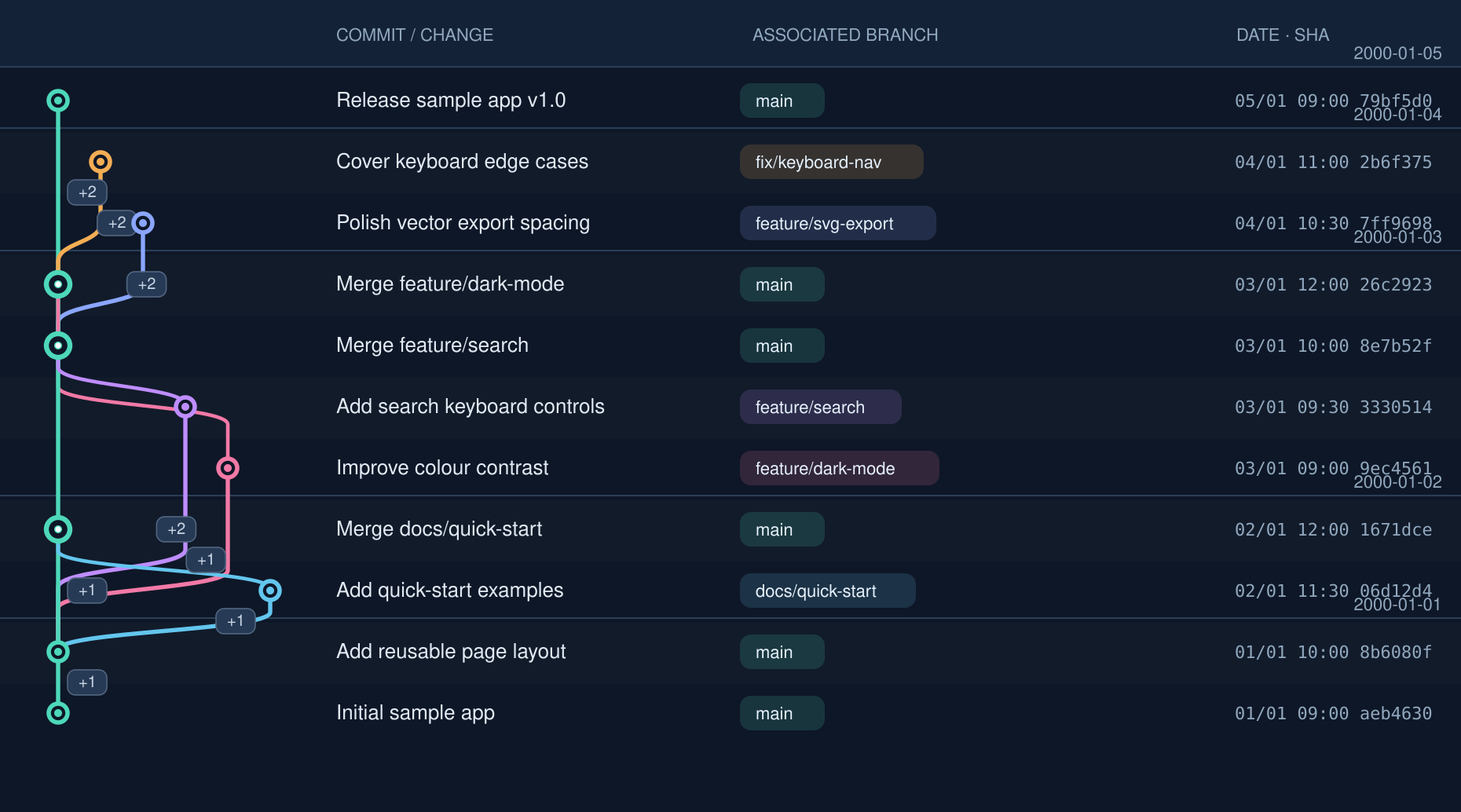
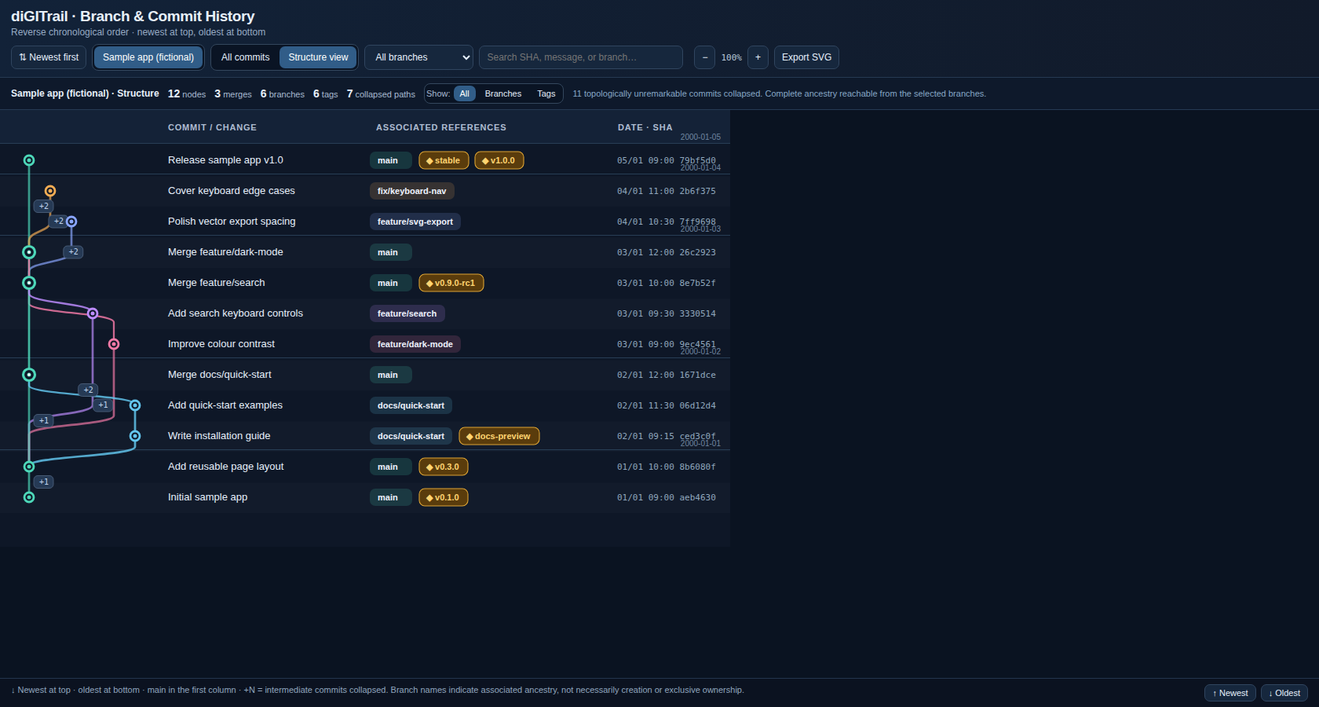
docs: refresh demo HTML and tag-enabled preview assets

diff --git a/examples/demo.html b/examples/demo.html
@@ -4,7 +4,6 @@
 header{padding:10px 14px 8px;background:linear-gradient(90deg,#122238,#111a2a);border-bottom:1px solid var(--line)}
 .topline{display:flex;justify-content:space-between;align-items:center;gap:10px;flex-wrap:wrap}
 h1{font-size:19px;margin:0 0 2px;letter-spacing:-.4px}.subtitle{font-size:12px;color:var(--muted);margin:0}
-.metadata{display:flex;align-items:center;gap:6px;flex-wrap:wrap;color:#b8cae0;font-size:11px}.tag{border:1px solid #344c6b;background:#1a2b43;padding:4px 8px;border-radius:999px}
 .controls{display:flex;align-items:center;gap:7px;flex-wrap:wrap;margin-top:8px}
 .tabs{display:flex;padding:2px;border-radius:8px;background:#0a1424;border:1px solid #34475d;gap:2px}
 button,select,input{font-family:inherit;font-size:12px;border:1px solid #30455f;border-radius:7px;padding:7px 9px;background:#16273d;color:#e6f0fc;outline:none}
@@ -18,6 +17,9 @@ button{cursor:pointer}button:hover{background:#243d5c}button.chosen{background:#
 #graph{width:100%;min-width:100%}.graph-svg{display:block;max-width:none}
 .graph-svg .daytext{font-size:10px;fill:#7086a1}.graph-svg .meta{font-family:ui-monospace,SFMono-Regular,Consolas,monospace;font-size:11px;fill:#90a7bd}.graph-svg .message{font-family:Inter,'Segoe UI',Arial,sans-serif;font-size:13px;fill:#e7f0fc}
 .graph-svg .message.muted{fill:#8d9cb2}.graph-svg .branch-label{font-family:Inter,'Segoe UI',Arial,sans-serif;font-size:11px;fill:#eef2fd;font-weight:600}
+.graph-svg .tag-label{font-family:Inter,'Segoe UI',Arial,sans-serif;font-size:11px;fill:#ffd471;font-weight:600}
+#ref-visibility{align-items:center;gap:4px}#ref-visibility button{padding:4px 8px;font-size:11px}
+.ref-filter-label{color:#a9bbd2;font-size:11px;white-space:nowrap}
 .graph-svg .meta{font-family:ui-monospace,SFMono-Regular,Consolas,monospace;font-size:11px;fill:#90a7bd}
 .graph-svg .headtxt{font-size:11px;font-weight:600;letter-spacing:.8px;fill:#aebcd1}
 .graph-svg .fold-text{font-family:ui-monospace,monospace;font-size:10px;fill:#bfd5ee}
@@ -34,16 +36,16 @@ footer{display:flex;justify-content:space-between;gap:10px;flex-wrap:wrap;paddin
 footer button{padding:4px 9px;font-size:11px}
 @media(max-width:780px){header{padding:8px 10px}h1{font-size:17px}.status{padding:6px 10px}footer{padding:7px 10px}#detail{position:absolute;right:0;top:130px;bottom:34px;width:min(87vw,300px);z-index:5;box-shadow:-12px 0 24px #0009}}
 </style></head><body>
-<header><div class="topline"><div><h1>diGITrail · Branch & Commit History</h1><p class="subtitle" id="order-description">Reverse chronological order · newest at top, oldest at bottom</p></div><div class="metadata"><span class="tag" id="order-tag">↓ Newest at top</span><span class="tag">Read-only</span></div></div>
+<header><div class="topline"><div><h1>diGITrail · Branch & Commit History</h1><p class="subtitle" id="order-description">Reverse chronological order · newest at top, oldest at bottom</p></div></div>
 <div class="controls"><button id="flip-time" type="button" title="Reverse chronological order" aria-label="Reverse chronological order">⇅ Newest first</button><div class="tabs"><button data-repo="repo0" class="chosen">Sample app (fictional)</button></div><div class="tabs"><button data-mode="full">All commits</button><button data-mode="summary" class="chosen">Structure view</button></div><select id="filter-branch" aria-label="Highlight branch"><option value="">All branches</option></select><input type="search" id="find" placeholder="Search SHA, message, or branch…" aria-label="Search commits"/><span id="found" style="font-size:11px;color:#95c5f5"></span><button id="zoom-out" aria-label="Zoom out">−</button><span id="zoomv" style="font:11px monospace;color:#b9c9da">100%</span><button id="zoom-in" aria-label="Zoom in">+</button><button id="download-svg">Export SVG</button></div></header>
-<div class="status"><strong id="stat-title"></strong><span class="stat"><b id="total">…</b> nodes</span><span class="stat"><b id="merges">…</b> merges</span><span class="stat"><b id="countrefs">…</b> references</span><span class="stat"><b id="gaps">…</b> collapsed paths</span><span id="stat-subtitle" style="color:#87a8c7"></span></div>
-<div id="layout"><main id="viewport"><div id="graph"></div></main><aside id="detail" hidden><button id="close-detail">Close details ×</button><h2 id="detail-head"></h2><div class="small">SHA</div><div id="detail-sha" style="font-family:monospace;font-size:12px;word-break:break-all"></div><div class="small">Date (UTC when time is available)</div><div id="detail-date"></div><div class="small">Associated branches</div><div id="detail-branches"></div><div class="small">Parents or connected ancestors</div><div id="detail-parents"></div><a id="link-commit" target="_blank" rel="noopener noreferrer">View commit in repository ↗</a></aside></div>
+<div class="status"><strong id="stat-title"></strong><span class="stat"><b id="total">…</b> nodes</span><span class="stat"><b id="merges">…</b> merges</span><span class="stat"><b id="countrefs">…</b> branches</span><span class="stat"><b id="counttags">…</b> tags</span><span class="stat"><b id="gaps">…</b> collapsed paths</span><div id="ref-visibility" class="tabs" aria-label="Reference label visibility"><span class="ref-filter-label">Show:</span><button data-ref-visibility="all" class="chosen" type="button">All</button><button data-ref-visibility="branches" type="button">Branches</button><button data-ref-visibility="tags" type="button">Tags</button></div><span id="stat-subtitle" style="color:#87a8c7"></span></div>
+<div id="layout"><main id="viewport"><div id="graph"></div></main><aside id="detail" hidden><button id="close-detail">Close details ×</button><h2 id="detail-head"></h2><div class="small">SHA</div><div id="detail-sha" style="font-family:monospace;font-size:12px;word-break:break-all"></div><div class="small">Date (UTC when time is available)</div><div id="detail-date"></div><div class="small">Associated branches</div><div id="detail-branches"></div><div class="small">Tags</div><div id="detail-tags"></div><div class="small">Parents or connected ancestors</div><div id="detail-parents"></div><a id="link-commit" target="_blank" rel="noopener noreferrer">View commit in repository ↗</a></aside></div>
 <footer><div id="legend">Links reflect real Git commit/parent relationships. Shared commits may have multiple branch names.</div><div style="display:flex;gap:6px"><button id="go-top" aria-label="Go to start of history">↑ Start</button><button id="go-latest" aria-label="Go to end of history">↓ End</button></div></footer>
-<script id="payload" type="application/json">{"repo0":{"repo":"fictional-sample-app","displayName":"Sample app (fictional)","originUrl":"","baseBranch":"main","nodes":[{"id":"aeb4630366b92feab23533eb407c10330b8a71f6","msg":"Initial sample app","date":"2000-01-01","clock":"09:00","parents":[]},{"id":"771decf60a3c16559e704f1346bebf35818e7768","msg":"Create application shell","date":"2000-01-01","clock":"09:30","parents":[{"direct":true,"verified":true,"id":"aeb4630366b92feab23533eb407c10330b8a71f6"}]},{"id":"8b6080fab4f6d1c5795c0a8a0789fd26d4c3550a","msg":"Add reusable page layout","date":"2000-01-01","clock":"10:00","parents":[{"direct":true,"verified":true,"id":"771decf60a3c16559e704f1346bebf35818e7768"}]},{"id":"65c045025ae56432a67f65f2235534e9e39076ba","msg":"Build search index","date":"2000-01-02","clock":"09:00","parents":[{"direct":true,"verified":true,"id":"8b6080fab4f6d1c5795c0a8a0789fd26d4c3550a"}]},{"id":"ced3c0ffd132a6951d4bd0d88357cd0435fd74ba","msg":"Write installation guide","date":"2000-01-02","clock":"09:15","parents":[{"direct":true,"verified":true,"id":"8b6080fab4f6d1c5795c0a8a0789fd26d4c3550a"}]},{"id":"aae18f92cd4cbdeb762e80bb17144cefd86b43d7","msg":"Define dark theme palette","date":"2000-01-02","clock":"09:30","parents":[{"direct":true,"verified":true,"id":"8b6080fab4f6d1c5795c0a8a0789fd26d4c3550a"}]},{"id":"79dc7964515f97025a9cca604671dbb8ed45159a","msg":"Improve navigation links","date":"2000-01-02","clock":"10:00","parents":[{"direct":true,"verified":true,"id":"8b6080fab4f6d1c5795c0a8a0789fd26d4c3550a"}]},{"id":"d8a5597f82cc567da28fe9c6677e0243737e8d6e","msg":"Add query suggestions","date":"2000-01-02","clock":"11:00","parents":[{"direct":true,"verified":true,"id":"65c045025ae56432a67f65f2235534e9e39076ba"}]},{"id":"06d12d439a13aa41277a0266e3fe64a24d2db6bb","msg":"Add quick-start examples","date":"2000-01-02","clock":"11:30","parents":[{"direct":true,"verified":true,"id":"ced3c0ffd132a6951d4bd0d88357cd0435fd74ba"}]},{"id":"1671dce75834ed0326229240a44683fb7ca014c2","msg":"Merge docs/quick-start","date":"2000-01-02","clock":"12:00","parents":[{"direct":true,"verified":true,"id":"79dc7964515f97025a9cca604671dbb8ed45159a"},{"direct":true,"verified":true,"id":"06d12d439a13aa41277a0266e3fe64a24d2db6bb"}]},{"id":"9ec4561fcd82b1c27546be028d18d60aff3423ec","msg":"Improve colour contrast","date":"2000-01-03","clock":"09:00","parents":[{"direct":true,"verified":true,"id":"aae18f92cd4cbdeb762e80bb17144cefd86b43d7"}]},{"id":"3330514413c4923beb239e090c8fe80b5d445ac4","msg":"Add search keyboard controls","date":"2000-01-03","clock":"09:30","parents":[{"direct":true,"verified":true,"id":"d8a5597f82cc567da28fe9c6677e0243737e8d6e"}]},{"id":"8e7b52fe16de3cf679b5ac8fb5440d33cc462ca5","msg":"Merge feature/search","date":"2000-01-03","clock":"10:00","parents":[{"direct":true,"verified":true,"id":"1671dce75834ed0326229240a44683fb7ca014c2"},{"direct":true,"verified":true,"id":"3330514413c4923beb239e090c8fe80b5d445ac4"}]},{"id":"4da5e7afc3febcb5b639c370982a58acfbbcf95b","msg":"Create standalone SVG output","date":"2000-01-03","clock":"11:00","parents":[{"direct":true,"verified":true,"id":"8e7b52fe16de3cf679b5ac8fb5440d33cc462ca5"}]},{"id":"f7e9741d75ca79b13cfcf42000bb3880a38c7a13","msg":"Include labels in exported SVG","date":"2000-01-03","clock":"11:30","parents":[{"direct":true,"verified":true,"id":"4da5e7afc3febcb5b639c370982a58acfbbcf95b"}]},{"id":"26c2923a1129187d8d182511639cdf260ec85c05","msg":"Merge feature/dark-mode","date":"2000-01-03","clock":"12:00","parents":[{"direct":true,"verified":true,"id":"8e7b52fe16de3cf679b5ac8fb5440d33cc462ca5"},{"direct":true,"verified":true,"id":"9ec4561fcd82b1c27546be028d18d60aff3423ec"}]},{"id":"804e256e6a178e95d2e50cc4fe97089ed468e70f","msg":"Handle arrow-key navigation","date":"2000-01-04","clock":"09:00","parents":[{"direct":true,"verified":true,"id":"26c2923a1129187d8d182511639cdf260ec85c05"}]},{"id":"f3624202247213c794bb5b6eba1f7fef44b46e92","msg":"Check sample app interactions","date":"2000-01-04","clock":"09:30","parents":[{"direct":true,"verified":true,"id":"26c2923a1129187d8d182511639cdf260ec85c05"}]},{"id":"50fef10362b4d9c9a3dc2c5f1924074766ee339d","msg":"Keep focus visible after search","date":"2000-01-04","clock":"10:00","parents":[{"direct":true,"verified":true,"id":"804e256e6a178e95d2e50cc4fe97089ed468e70f"}]},{"id":"7ff9698bb4482ddbab7ac4e1120f4a5ab357215f","msg":"Polish vector export spacing","date":"2000-01-04","clock":"10:30","parents":[{"direct":true,"verified":true,"id":"f7e9741d75ca79b13cfcf42000bb3880a38c7a13"}]},{"id":"2b6f375246cc53a2af50edaab69b66ec43626ac4","msg":"Cover keyboard edge cases","date":"2000-01-04","clock":"11:00","parents":[{"direct":true,"verified":true,"id":"50fef10362b4d9c9a3dc2c5f1924074766ee339d"}]},{"id":"a5f1898031c70dd28912bd1afb43ab12c42099ff","msg":"Prepare sample release notes","date":"2000-01-04","clock":"11:30","parents":[{"direct":true,"verified":true,"id":"f3624202247213c794bb5b6eba1f7fef44b46e92"}]},{"id":"79bf5d08e6062f8fc28e108b56122ac3aa15e197","msg":"Release sample app v1.0","date":"2000-01-05","clock":"09:00","parents":[{"direct":true,"verified":true,"id":"a5f1898031c70dd28912bd1afb43ab12c42099ff"}]}],"refs":{"main":"79bf5d08e6062f8fc28e108b56122ac3aa15e197","feature/svg-export":"7ff9698bb4482ddbab7ac4e1120f4a5ab357215f","fix/keyboard-nav":"2b6f375246cc53a2af50edaab69b66ec43626ac4","feature/search":"3330514413c4923beb239e090c8fe80b5d445ac4","feature/dark-mode":"9ec4561fcd82b1c27546be028d18d60aff3423ec","docs/quick-start":"06d12d439a13aa41277a0266e3fe64a24d2db6bb"},"scope":"Entirely fictional demonstration. Names, identifiers, messages, dates and parent relationships were created for this example; no real repository or personal data is included.","components":1}}</script><script>'use strict';
+<script id="payload" type="application/json">{"repo0":{"repo":"fictional-sample-app","displayName":"Sample app (fictional)","originUrl":"","baseBranch":"main","nodes":[{"id":"aeb4630366b92feab23533eb407c10330b8a71f6","msg":"Initial sample app","date":"2000-01-01","clock":"09:00","parents":[]},{"id":"771decf60a3c16559e704f1346bebf35818e7768","msg":"Create application shell","date":"2000-01-01","clock":"09:30","parents":[{"direct":true,"verified":true,"id":"aeb4630366b92feab23533eb407c10330b8a71f6"}]},{"id":"8b6080fab4f6d1c5795c0a8a0789fd26d4c3550a","msg":"Add reusable page layout","date":"2000-01-01","clock":"10:00","parents":[{"direct":true,"verified":true,"id":"771decf60a3c16559e704f1346bebf35818e7768"}]},{"id":"65c045025ae56432a67f65f2235534e9e39076ba","msg":"Build search index","date":"2000-01-02","clock":"09:00","parents":[{"direct":true,"verified":true,"id":"8b6080fab4f6d1c5795c0a8a0789fd26d4c3550a"}]},{"id":"ced3c0ffd132a6951d4bd0d88357cd0435fd74ba","msg":"Write installation guide","date":"2000-01-02","clock":"09:15","parents":[{"direct":true,"verified":true,"id":"8b6080fab4f6d1c5795c0a8a0789fd26d4c3550a"}]},{"id":"aae18f92cd4cbdeb762e80bb17144cefd86b43d7","msg":"Define dark theme palette","date":"2000-01-02","clock":"09:30","parents":[{"direct":true,"verified":true,"id":"8b6080fab4f6d1c5795c0a8a0789fd26d4c3550a"}]},{"id":"79dc7964515f97025a9cca604671dbb8ed45159a","msg":"Improve navigation links","date":"2000-01-02","clock":"10:00","parents":[{"direct":true,"verified":true,"id":"8b6080fab4f6d1c5795c0a8a0789fd26d4c3550a"}]},{"id":"d8a5597f82cc567da28fe9c6677e0243737e8d6e","msg":"Add query suggestions","date":"2000-01-02","clock":"11:00","parents":[{"direct":true,"verified":true,"id":"65c045025ae56432a67f65f2235534e9e39076ba"}]},{"id":"06d12d439a13aa41277a0266e3fe64a24d2db6bb","msg":"Add quick-start examples","date":"2000-01-02","clock":"11:30","parents":[{"direct":true,"verified":true,"id":"ced3c0ffd132a6951d4bd0d88357cd0435fd74ba"}]},{"id":"1671dce75834ed0326229240a44683fb7ca014c2","msg":"Merge docs/quick-start","date":"2000-01-02","clock":"12:00","parents":[{"direct":true,"verified":true,"id":"79dc7964515f97025a9cca604671dbb8ed45159a"},{"direct":true,"verified":true,"id":"06d12d439a13aa41277a0266e3fe64a24d2db6bb"}]},{"id":"9ec4561fcd82b1c27546be028d18d60aff3423ec","msg":"Improve colour contrast","date":"2000-01-03","clock":"09:00","parents":[{"direct":true,"verified":true,"id":"aae18f92cd4cbdeb762e80bb17144cefd86b43d7"}]},{"id":"3330514413c4923beb239e090c8fe80b5d445ac4","msg":"Add search keyboard controls","date":"2000-01-03","clock":"09:30","parents":[{"direct":true,"verified":true,"id":"d8a5597f82cc567da28fe9c6677e0243737e8d6e"}]},{"id":"8e7b52fe16de3cf679b5ac8fb5440d33cc462ca5","msg":"Merge feature/search","date":"2000-01-03","clock":"10:00","parents":[{"direct":true,"verified":true,"id":"1671dce75834ed0326229240a44683fb7ca014c2"},{"direct":true,"verified":true,"id":"3330514413c4923beb239e090c8fe80b5d445ac4"}]},{"id":"4da5e7afc3febcb5b639c370982a58acfbbcf95b","msg":"Create standalone SVG output","date":"2000-01-03","clock":"11:00","parents":[{"direct":true,"verified":true,"id":"8e7b52fe16de3cf679b5ac8fb5440d33cc462ca5"}]},{"id":"f7e9741d75ca79b13cfcf42000bb3880a38c7a13","msg":"Include labels in exported SVG","date":"2000-01-03","clock":"11:30","parents":[{"direct":true,"verified":true,"id":"4da5e7afc3febcb5b639c370982a58acfbbcf95b"}]},{"id":"26c2923a1129187d8d182511639cdf260ec85c05","msg":"Merge feature/dark-mode","date":"2000-01-03","clock":"12:00","parents":[{"direct":true,"verified":true,"id":"8e7b52fe16de3cf679b5ac8fb5440d33cc462ca5"},{"direct":true,"verified":true,"id":"9ec4561fcd82b1c27546be028d18d60aff3423ec"}]},{"id":"804e256e6a178e95d2e50cc4fe97089ed468e70f","msg":"Handle arrow-key navigation","date":"2000-01-04","clock":"09:00","parents":[{"direct":true,"verified":true,"id":"26c2923a1129187d8d182511639cdf260ec85c05"}]},{"id":"f3624202247213c794bb5b6eba1f7fef44b46e92","msg":"Check sample app interactions","date":"2000-01-04","clock":"09:30","parents":[{"direct":true,"verified":true,"id":"26c2923a1129187d8d182511639cdf260ec85c05"}]},{"id":"50fef10362b4d9c9a3dc2c5f1924074766ee339d","msg":"Keep focus visible after search","date":"2000-01-04","clock":"10:00","parents":[{"direct":true,"verified":true,"id":"804e256e6a178e95d2e50cc4fe97089ed468e70f"}]},{"id":"7ff9698bb4482ddbab7ac4e1120f4a5ab357215f","msg":"Polish vector export spacing","date":"2000-01-04","clock":"10:30","parents":[{"direct":true,"verified":true,"id":"f7e9741d75ca79b13cfcf42000bb3880a38c7a13"}]},{"id":"2b6f375246cc53a2af50edaab69b66ec43626ac4","msg":"Cover keyboard edge cases","date":"2000-01-04","clock":"11:00","parents":[{"direct":true,"verified":true,"id":"50fef10362b4d9c9a3dc2c5f1924074766ee339d"}]},{"id":"a5f1898031c70dd28912bd1afb43ab12c42099ff","msg":"Prepare sample release notes","date":"2000-01-04","clock":"11:30","parents":[{"direct":true,"verified":true,"id":"f3624202247213c794bb5b6eba1f7fef44b46e92"}]},{"id":"79bf5d08e6062f8fc28e108b56122ac3aa15e197","msg":"Release sample app v1.0","date":"2000-01-05","clock":"09:00","parents":[{"direct":true,"verified":true,"id":"a5f1898031c70dd28912bd1afb43ab12c42099ff"}]}],"refs":{"main":"79bf5d08e6062f8fc28e108b56122ac3aa15e197","feature/svg-export":"7ff9698bb4482ddbab7ac4e1120f4a5ab357215f","fix/keyboard-nav":"2b6f375246cc53a2af50edaab69b66ec43626ac4","feature/search":"3330514413c4923beb239e090c8fe80b5d445ac4","feature/dark-mode":"9ec4561fcd82b1c27546be028d18d60aff3423ec","docs/quick-start":"06d12d439a13aa41277a0266e3fe64a24d2db6bb"},"scope":"Entirely fictional demonstration. Names, identifiers, messages, dates and parent relationships were created for this example; no real repository or personal data is included.","tags":{"v0.1.0":{"commit":"aeb4630366b92feab23533eb407c10330b8a71f6","type":"lightweight"},"v0.3.0":{"commit":"8b6080fab4f6d1c5795c0a8a0789fd26d4c3550a","type":"lightweight"},"docs-preview":{"commit":"ced3c0ffd132a6951d4bd0d88357cd0435fd74ba","type":"annotated","tagger":"Example Maintainer","date":"2000-01-02T10:00:00+00:00","message":"Fictional documentation preview"},"v0.9.0-rc1":{"commit":"8e7b52fe16de3cf679b5ac8fb5440d33cc462ca5","type":"annotated","tagger":"Example Maintainer","date":"2000-01-03T12:30:00+00:00","message":"Release candidate for the fictional app"},"v1.0.0":{"commit":"79bf5d08e6062f8fc28e108b56122ac3aa15e197","type":"annotated","tagger":"Example Maintainer","date":"2000-01-05T10:00:00+00:00","message":"First stable fictional release"},"stable":{"commit":"79bf5d08e6062f8fc28e108b56122ac3aa15e197","type":"lightweight"}},"components":1}}</script><script>'use strict';
 const RAW = JSON.parse(document.getElementById('payload').textContent);
 const PALETTE=['#46d3b9','#f4ad54','#8aa6ff','#be8dff','#f279a6','#63c6ee','#f7c675','#8fdb84','#e89672','#e1a1cb','#67c9ad','#dca8f7','#d4e06e','#80c3fc'];
 const COLOR_BY_BRANCH={'main':'#4dd8b9'};
-let repo=Object.keys(RAW)[0], mode='summary', scale=1, selected=null, currentView=null, newestFirst=true;
+let repo=Object.keys(RAW)[0], mode='summary', refDisplay='all', scale=1, selected=null, currentView=null, newestFirst=true;
 const $=x=>document.querySelector(x);
 const el=(tag,attrs={},children=[])=>{const n=document.createElementNS('http://www.w3.org/2000/svg',tag);for(const [k,v] of Object.entries(attrs))if(v!==undefined&&v!==null)n.setAttribute(k,String(v));for(const c of children)n.appendChild(c);return n;};
 const E=(name,attrs={})=>Object.assign(document.createElement(name),attrs);
@@ -53,17 +55,19 @@ function prep(){
  const children=new Map(d.nodes.map(a=>[a.id,new Set()]));
  for(const x of d.nodes)for(const e of x.parents)if(children.has(e.id))children.get(e.id).add(x.id);
  const refmap=new Map();for(const [name,id] of Object.entries(d.refs)){if(!refmap.has(id))refmap.set(id,[]);refmap.get(id).push(name);}
+ const tagmap=new Map();for(const [name,tag] of Object.entries(d.tags||{})){if(!tagmap.has(tag.commit))tagmap.set(tag.commit,[]);tagmap.get(tag.commit).push({name,...tag});}
+ for(const items of tagmap.values())items.sort((a,b)=>a.name.localeCompare(b.name));
  // The main column is the MAIN FIRST-PARENT chain, not every ancestor reached by a merge.
  const mainFirstPath=new Set();let current=d.refs[d.baseBranch];
  while(current&&n.has(current)&&!mainFirstPath.has(current)){mainFirstPath.add(current);current=n.get(current).parents[0]?.id;}
- return {d,n,children,refmap,mainFirstPath};
+ return {d,n,children,refmap,tagmap,mainFirstPath};
 }
 function makeView(ctx){
- const {d,n,children,refmap,mainFirstPath}=ctx,heads=new Set(Object.values(d.refs));
+ const {d,n,children,refmap,tagmap,mainFirstPath}=ctx,heads=new Set(Object.values(d.refs));
  const keep=new Set();
  for(const x of d.nodes){
   const count=children.get(x.id)?.size||0;
-  if(mode==='full'||heads.has(x.id)||x.parents.length!==1||count!==1||x.boundary)keep.add(x.id);
+  if(mode==='full'||heads.has(x.id)||tagmap.has(x.id)||x.parents.length!==1||count!==1||x.boundary)keep.add(x.id);
  }
  const nodes=new Map();
  for(const id of keep){
@@ -240,7 +244,7 @@ function makeView(ctx){
    const name=owned.get(x.id)||nearest.get(x.id)?.name||'Historical branch without a current ref';
    labelsById.set(x.id,exact.length?exact:[name]);
  }
- return {ordered,byId,refmap,labelsById,summary:mode!=='full',nodecount:ordered.length,original:n.size,heads,mainFirstPath,laneCount:Math.max(0,...ordered.map(x=>x.lane||0))+1};
+ return {ordered,byId,refmap,tagmap,labelsById,summary:mode!=='full',nodecount:ordered.length,original:n.size,heads,mainFirstPath,laneCount:Math.max(0,...ordered.map(x=>x.lane||0))+1};
 }
 function render(){
  try{
@@ -257,16 +261,22 @@ function render(){
    const badgeX=infox+265;
    const measure=document.createElement('canvas').getContext('2d');
    measure.font='600 11px Inter, Segoe UI, Arial, sans-serif';
-   const allBranchLabels=[...v.labelsById.values()].map(names=>names.join(' · ')).filter(Boolean);
-   const branchWidth=Math.max(170,...allBranchLabels.map(name=>Math.ceil(measure.measureText(name).width)+22));
-   const width=Math.max(930,badgeX+branchWidth+162);
+   // Reserve full width for the combined branch/tag pills across all filter modes.
+   const labelWidth=Math.max(170,...v.ordered.map(x=>{
+     const branches=v.labelsById.get(x.id)||[];
+     const tags=v.tagmap.get(x.id)||[];
+     const branchW=branches.length?Math.max(54,Math.ceil(measure.measureText(branches.join(' · ')).width)+20)+8:0;
+     const tagsW=tags.reduce((sum,t)=>sum+Math.ceil(measure.measureText('◆ '+t.name).width)+28,0);
+     return branchW+tagsW+14;
+   }));
+   const width=Math.max(930,badgeX+labelWidth+162);
    const head=64,height=head+rows.length*step+24;
   const svg=el('svg',{xmlns:'http://www.w3.org/2000/svg',width,height,viewBox:`0 0 ${width} ${height}`,class:'graph-svg',role:'img','aria-label':'Git commit and branch history ordered by date'});
   const viewport=$('#viewport');const fit=Math.min(1,Math.max(.28,(viewport.clientWidth-12)/width));const applied=fit*scale;
   svg.style.width=(width*applied)+'px';svg.style.height=(height*applied)+'px';
   const bg=el('g'),paths=el('g'),marks=el('g'),labels=el('g');svg.append(bg,paths,marks,labels);
   bg.appendChild(el('rect',{x:0,y:0,width,height,fill:'#0e1727'}));bg.appendChild(el('rect',{x:0,y:0,width,height:42,fill:'#142237'}));
-  bg.appendChild(textNode(infox,26,'COMMIT / CHANGE','headtxt'));bg.appendChild(textNode(badgeX,26,'ASSOCIATED BRANCH','headtxt'));bg.appendChild(textNode(width-143,26,'DATE · SHA','headtxt'));
+  bg.appendChild(textNode(infox,26,'COMMIT / CHANGE','headtxt'));bg.appendChild(textNode(badgeX,26,'ASSOCIATED REFERENCES','headtxt'));bg.appendChild(textNode(width-143,26,'DATE · SHA','headtxt'));
   const coor=x=>({x:graphx+gap*x.lane,y:head+x.row*step});
   for(const x of rows){const {y}=coor(x);if(x.row%2===1)bg.appendChild(el('rect',{x:0,y:y-step*.48,width,height:step,fill:'#fff',opacity:'.018'}));if(x.row===0||x.date!==rows[x.row-1]?.date){const date=x.date||'Context';bg.appendChild(el('path',{d:`M 0 ${y-step*.55} H ${width}`,stroke:'#36506d','stroke-width':1,opacity:'.72'}));bg.appendChild(textNode(width-12,y-step*.55-5,date,'daytext',{'text-anchor':'end'}));}}
    // Path layout depends only on screen coordinates, so reversing chronology
@@ -297,27 +307,43 @@ function render(){
      marks.appendChild(c);
    }
    const row=el('g',{class:'commit-row','data-id':x.id,tabindex:'0',role:'button','aria-label':`Commit ${x.id}`});
-   row.appendChild(el('rect',{x:0,y:y-step*.47,width,height:step*.94,fill:'#2b4c6d',class:'hover-bg',rx:4}));row.appendChild(el('circle',{cx,cy:y,r:merge?7.5:6,fill:'#0e1727',stroke:x.color,'stroke-width':merge?3.2:2.8}));if(branches.length)row.appendChild(el('circle',{cx,cy:y,r:2.5,fill:x.color}));if(merge)row.appendChild(el('circle',{cx,cy:y,r:1.8,fill:'#fff'}));
+   row.appendChild(el('rect',{x:0,y:y-step*.47,width,height:step*.94,fill:'#2b4c6d',class:'hover-bg',rx:4}));row.appendChild(el('circle',{cx,cy:y,r:merge?7.5:6,fill:'#0e1727',stroke:x.color,'stroke-width':merge?3.2:2.8}));if(branches.length||v.tagmap.has(x.id))row.appendChild(el('circle',{cx,cy:y,r:2.5,fill:x.color}));if(merge)row.appendChild(el('circle',{cx,cy:y,r:1.8,fill:'#fff'}));
    let msg=x.msg||(branches.length?'Branch tip':merge?'Merge':x.boundary?'History boundary':'Branch point');if(msg.length>37)msg=msg.slice(0,35)+'…';
    if(x.boundary)msg='◂ '+msg;
    row.appendChild(textNode(infox,y+4,msg,x.msg?'message':'message muted'));
-   if(branches.length){
+   const tagItems=v.tagmap.get(x.id)||[];
+   let refX=badgeX;
+   if(branches.length&&refDisplay!=='tags'){
      const names=branches.join(' · ');
      const bw=Math.max(54,Math.ceil(measure.measureText(names).width)+20);
-     row.appendChild(el('rect',{x:badgeX-8,y:y-11,width:bw,height:22,rx:7,fill:x.color,opacity:.16}));
-     row.appendChild(textNode(badgeX+2,y+4,names,'branch-label'));
-    }
+     row.appendChild(el('rect',{x:refX-8,y:y-11,width:bw,height:22,rx:7,fill:x.color,opacity:.16}));
+     row.appendChild(textNode(refX+2,y+4,names,'branch-label'));
+     refX+=bw+8;
+   }
+   if(refDisplay!=='branches')for(const t of tagItems){
+     const txt='◆ '+t.name;
+     const tw=Math.ceil(measure.measureText(txt).width)+20;
+     const group=el('g',{class:'ref-tag','data-tag':t.name});
+     group.appendChild(el('rect',{x:refX-7,y:y-11,width:tw,height:22,rx:7,fill:'#5a3c0c',stroke:'#dda434','stroke-width':1.1}));
+     group.appendChild(textNode(refX+2,y+4,txt,'tag-label'));
+     const info=[t.name,t.type==='annotated'?'Annotated tag':'Lightweight tag'];
+     if(t.tagger)info.push('Tagger: '+t.tagger);
+     if(t.date)info.push('Tagged: '+t.date);
+     if(t.message)info.push('Message: '+t.message);
+     group.appendChild(el('title')).textContent=info.join('\n');
+     row.appendChild(group);
+     refX+=tw+8;
+   }
    const when=x.date?(x.date.slice(8)+'/'+x.date.slice(5,7)+(x.clock?' '+x.clock:'')):'no date';row.appendChild(textNode(width-144,y+4,when+' '+x.id.slice(0,7),'meta'));
-   row.appendChild(el('title')).textContent=[x.id,x.date+(x.clock?' '+x.clock:' (time unavailable)'),x.msg||'No commit message retrieved',...branches,...(x.boundary?[x.boundary_description||'History boundary', 'Historical parents outside the view: '+(x.unshown_parents||[]).join(', ')]:[])].join('\n');
+   row.appendChild(el('title')).textContent=[x.id,x.date+(x.clock?' '+x.clock:' (time unavailable)'),x.msg||'No commit message retrieved',...branches,...tagItems.map(t=>'Tag: '+t.name),...(x.boundary?[x.boundary_description||'History boundary', 'Historical parents outside the view: '+(x.unshown_parents||[]).join(', ')]:[])].join('\n');
    row.addEventListener('click',()=>showDetails(x,branches));row.addEventListener('keydown',ev=>{if(ev.key==='Enter'||ev.key===' '){ev.preventDefault();showDetails(x,branches);}});labels.appendChild(row);
   }
   $('#graph').replaceChildren(svg);const folds=rows.reduce((sum,x)=>sum+x.edges.filter(e=>e.collapsed>0).length,0);
-  $('#total').textContent=rows.length.toLocaleString('en-US');$('#merges').textContent=rows.filter(x=>x.edges.length>1).length;$('#countrefs').textContent=Object.keys(ctx.d.refs).length;$('#gaps').textContent=folds;$('#zoomv').textContent=Math.round(applied*100)+'%';
+  $('#total').textContent=rows.length.toLocaleString('en-US');$('#merges').textContent=rows.filter(x=>x.edges.length>1).length;$('#countrefs').textContent=Object.keys(ctx.d.refs).length;$('#counttags').textContent=Object.keys(ctx.d.tags||{}).length;$('#gaps').textContent=folds;$('#zoomv').textContent=Math.round(applied*100)+'%';
   $('#stat-title').textContent=ctx.d.displayName+' · '+(mode==='summary'?'Structure':'All commits');
   $('#stat-subtitle').textContent=(mode==='summary'?`${v.original-rows.length} topologically unremarkable commits collapsed.`:`${rows.length} commits; order ${newestFirst?'descending':'ascending'}.`)+' Complete ancestry reachable from the selected branches.';
   $('#legend').textContent=(newestFirst?'↓ Newest at top · oldest at bottom':'↑ Oldest at top · newest at bottom')+` · ${ctx.d.baseBranch} in the first column · +N = intermediate commits collapsed. Branch names indicate associated ancestry, not necessarily creation or exclusive ownership.`;
    $('#order-description').textContent=newestFirst?'Reverse chronological order · newest at top, oldest at bottom':'Chronological order · oldest at top, newest at bottom';
-   $('#order-tag').textContent=newestFirst?'↓ Newest at top':'↑ Oldest at top';
    $('#flip-time').textContent=newestFirst?'⇅ Newest first':'⇅ Oldest first';
    $('#go-top').textContent=newestFirst?'↑ Newest':'↑ Oldest';
    $('#go-latest').textContent=newestFirst?'↓ Oldest':'↓ Newest';
@@ -325,7 +351,7 @@ function render(){
   highlight();
  }catch(err){console.error(err);$('#graph').textContent='Render error: '+err.message;}
 }
-function showDetails(x,branches){selected=x.id;$('#detail-head').textContent=x.msg||'Commit '+x.id;$('#detail-sha').textContent=x.id+'… (abbreviated SHA)';$('#detail-date').textContent=x.date+(x.clock?' '+x.clock+' UTC':' · time unavailable');$('#detail-branches').textContent=branches.length?branches.join(', '):'No direct branch reference at this commit';$('#detail-parents').replaceChildren();if(x.edges?.length){for(const e of x.edges){const item=E('div',{className:'parent-item'});item.textContent=e.id+' '+(e.collapsed>0?`(${e.collapsed} intermediate commits collapsed)`:'(direct parent)');$('#detail-parents').appendChild(item);}}else $('#detail-parents').textContent=x.boundary?('History predates the displayed interval · actual parents outside the view: '+(x.unshown_parents||[]).join(', ')):'Start of displayed history segment';const origin=RAW[repo].originUrl||''; $('#link-commit').hidden=!origin; if(origin)$('#link-commit').href=origin.replace(/\/+$/,'')+'/commit/'+encodeURIComponent(x.id);$('#detail').hidden=false;highlight();}
+function showDetails(x,branches){selected=x.id;$('#detail-head').textContent=x.msg||'Commit '+x.id;$('#detail-sha').textContent=x.id+'… (abbreviated SHA)';$('#detail-date').textContent=x.date+(x.clock?' '+x.clock+' UTC':' · time unavailable');$('#detail-branches').textContent=branches.length?branches.join(', '):'No direct branch reference at this commit';const tags=currentView.tagmap.get(x.id)||[];const detailTags=$('#detail-tags');detailTags.replaceChildren();if(!tags.length)detailTags.textContent='No tags at this commit';for(const t of tags){const item=E('div',{className:'parent-item'});item.textContent=t.name+' ('+t.type+')'+(t.tagger?' · '+t.tagger:'')+(t.date?' · '+t.date:'')+(t.message?' · '+t.message:'');detailTags.appendChild(item);}$('#detail-parents').replaceChildren();if(x.edges?.length){for(const e of x.edges){const item=E('div',{className:'parent-item'});item.textContent=e.id+' '+(e.collapsed>0?`(${e.collapsed} intermediate commits collapsed)`:'(direct parent)');$('#detail-parents').appendChild(item);}}else $('#detail-parents').textContent=x.boundary?('History predates the displayed interval · actual parents outside the view: '+(x.unshown_parents||[]).join(', ')):'Start of displayed history segment';const origin=RAW[repo].originUrl||''; $('#link-commit').hidden=!origin; if(origin)$('#link-commit').href=origin.replace(/\/+$/,'')+'/commit/'+encodeURIComponent(x.id);$('#detail').hidden=false;highlight();}
 function highlight(){const val=$('#filter-branch').value,desired=val?val.split('|')[0]:null;const lineage=new Set();if(desired&&currentView){const q=[desired];while(q.length){const id=q.pop();if(lineage.has(id))continue;lineage.add(id);for(const p of currentView.byId.get(id)?.edges||[])q.push(p.id);}}for(const el of document.querySelectorAll('.commit-row')){const id=el.dataset.id;el.classList.toggle('focused',id===selected);el.classList.toggle('dimmed',lineage.size>0&&!lineage.has(id));}}
 function changeRepo(name){repo=name;selected=null;$('#detail').hidden=true;for(const b of document.querySelectorAll('[data-repo]'))b.classList.toggle('chosen',b.dataset.repo===repo);render();$('#viewport').scrollTop=0;}
 function changeMode(name){mode=name;selected=null;$('#detail').hidden=true;for(const b of document.querySelectorAll('[data-mode]'))b.classList.toggle('chosen',b.dataset.mode===mode);render();$('#viewport').scrollTop=0;}
@@ -343,10 +369,11 @@ for(const b of document.querySelectorAll('[data-repo]'))b.addEventListener('clic
 $('#flip-time').addEventListener('click',flipTime);
 for(const b of document.querySelectorAll('[data-mode]'))b.addEventListener('click',()=>changeMode(b.dataset.mode));
 $('#zoom-in').addEventListener('click',()=>changeScale(.1));$('#zoom-out').addEventListener('click',()=>changeScale(-.1));
+for(const b of document.querySelectorAll('[data-ref-visibility]'))b.addEventListener('click',()=>{refDisplay=b.dataset.refVisibility;for(const c of document.querySelectorAll('[data-ref-visibility]'))c.classList.toggle('chosen',c===b);render();});
 $('#filter-branch').addEventListener('change',highlight);$('#close-detail').addEventListener('click',()=>{$('#detail').hidden=true;selected=null;highlight();});
 $('#go-top').addEventListener('click',()=>$('#viewport').scrollTo({top:0,behavior:'smooth'}));$('#go-latest').addEventListener('click',()=>$('#viewport').scrollTo({top:$('#viewport').scrollHeight,behavior:'smooth'}));
-$('#find').addEventListener('input',()=>{const q=$('#find').value.trim().toLowerCase();$('#found').textContent='';for(const el of document.querySelectorAll('.commit-row'))el.classList.remove('matched');if(q.length<3)return;const arr=currentView?.ordered.filter(n=>n.id.includes(q)||(n.msg||'').toLowerCase().includes(q)||(currentView.refmap.get(n.id)||[]).some(s=>s.toLowerCase().includes(q)))||[];$('#found').textContent=arr.length+' matches';if(arr.length){const id=arr[0].id,row=document.querySelector(`.commit-row[data-id="${id}"]`);if(row){row.classList.add('matched');const svg=$('.graph-svg'),effective=svg.getBoundingClientRect().width/Number(svg.getAttribute('width'));$('#viewport').scrollTop=Math.max(0,(currentView.byId.get(id).row*(mode==='full'?28:39)+64)*effective-90);}}});
-$('#download-svg').addEventListener('click',()=>{const svg=$('.graph-svg');if(!svg)return;const clone=svg.cloneNode(true);clone.setAttribute('xmlns','http://www.w3.org/2000/svg');const style=el('style');style.textContent='.message{font:13px Arial;fill:#e2eaf4}.muted{fill:#8b9cb5}.meta{font:11px monospace;fill:#91a8be}.branch-label{font:11px Arial;fill:#e6f1fc}.headtxt,.daytext{font:11px Arial;fill:#91a8be}.fold-text{font:10px Arial;fill:#cbd7e7}.commit-row .hover-bg{opacity:0}';clone.insertBefore(style,clone.firstChild);const raw='<?xml version="1.0" encoding="UTF-8"?>\n'+new XMLSerializer().serializeToString(clone);const url=URL.createObjectURL(new Blob([raw],{type:'image/svg+xml;charset=utf-8'}));const a=E('a',{href:url,download:`${RAW[repo].displayName}-git-${mode}-chronological.svg`});document.body.appendChild(a);a.click();a.remove();setTimeout(()=>URL.revokeObjectURL(url),1000);});
+$('#find').addEventListener('input',()=>{const q=$('#find').value.trim().toLowerCase();$('#found').textContent='';for(const el of document.querySelectorAll('.commit-row'))el.classList.remove('matched');if(q.length<3)return;const arr=currentView?.ordered.filter(n=>n.id.includes(q)||(n.msg||'').toLowerCase().includes(q)||(currentView.refmap.get(n.id)||[]).some(s=>s.toLowerCase().includes(q))||(currentView.tagmap.get(n.id)||[]).some(t=>t.name.toLowerCase().includes(q)))||[];$('#found').textContent=arr.length+' matches';if(arr.length){const id=arr[0].id,row=document.querySelector(`.commit-row[data-id="${id}"]`);if(row){row.classList.add('matched');const svg=$('.graph-svg'),effective=svg.getBoundingClientRect().width/Number(svg.getAttribute('width'));$('#viewport').scrollTop=Math.max(0,(currentView.byId.get(id).row*(mode==='full'?28:39)+64)*effective-90);}}});
+$('#download-svg').addEventListener('click',()=>{const svg=$('.graph-svg');if(!svg)return;const clone=svg.cloneNode(true);clone.setAttribute('xmlns','http://www.w3.org/2000/svg');const style=el('style');style.textContent='.message{font:13px Arial;fill:#e2eaf4}.muted{fill:#8b9cb5}.meta{font:11px monospace;fill:#91a8be}.branch-label{font:11px Arial;fill:#e6f1fc}.tag-label{font:600 11px Arial;fill:#ffd471}.headtxt,.daytext{font:11px Arial;fill:#91a8be}.fold-text{font:10px Arial;fill:#cbd7e7}.commit-row .hover-bg{opacity:0}';clone.insertBefore(style,clone.firstChild);const raw='<?xml version="1.0" encoding="UTF-8"?>\n'+new XMLSerializer().serializeToString(clone);const url=URL.createObjectURL(new Blob([raw],{type:'image/svg+xml;charset=utf-8'}));const a=E('a',{href:url,download:`${RAW[repo].displayName}-git-${mode}-chronological.svg`});document.body.appendChild(a);a.click();a.remove();setTimeout(()=>URL.revokeObjectURL(url),1000);});
 window.addEventListener('resize',()=>render());
 render();
 // Start at the most recent commits by default.
